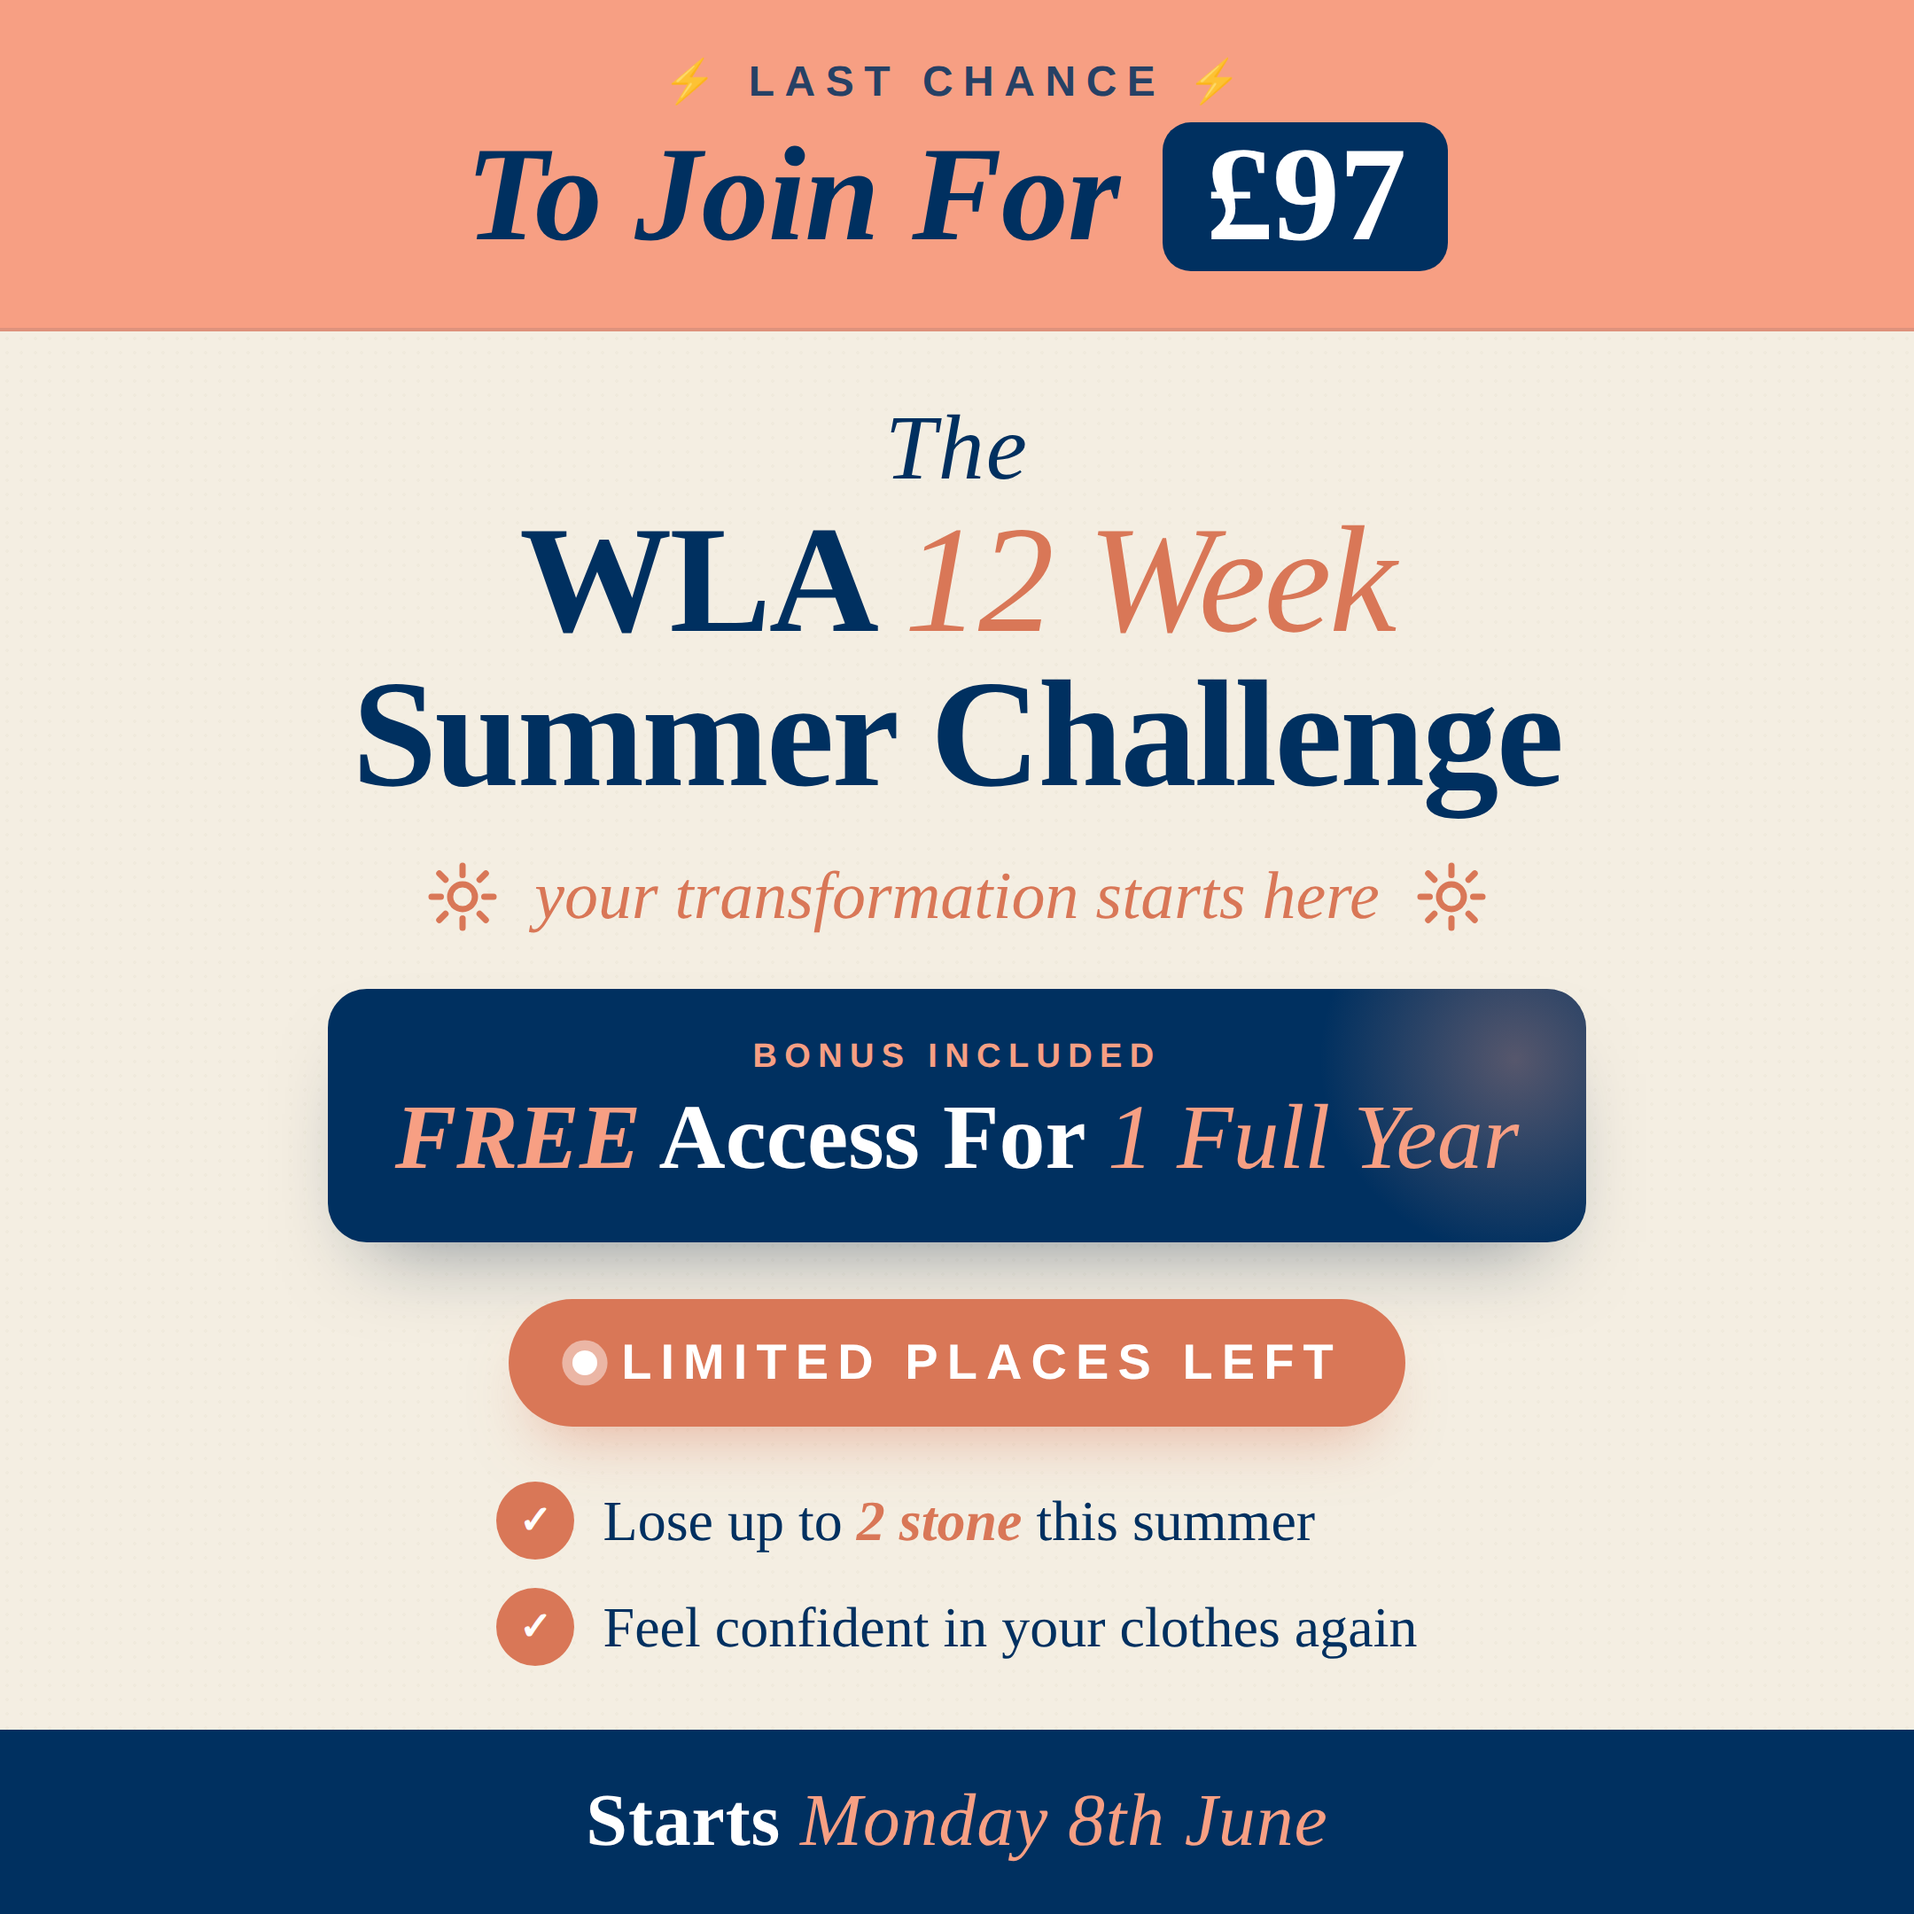
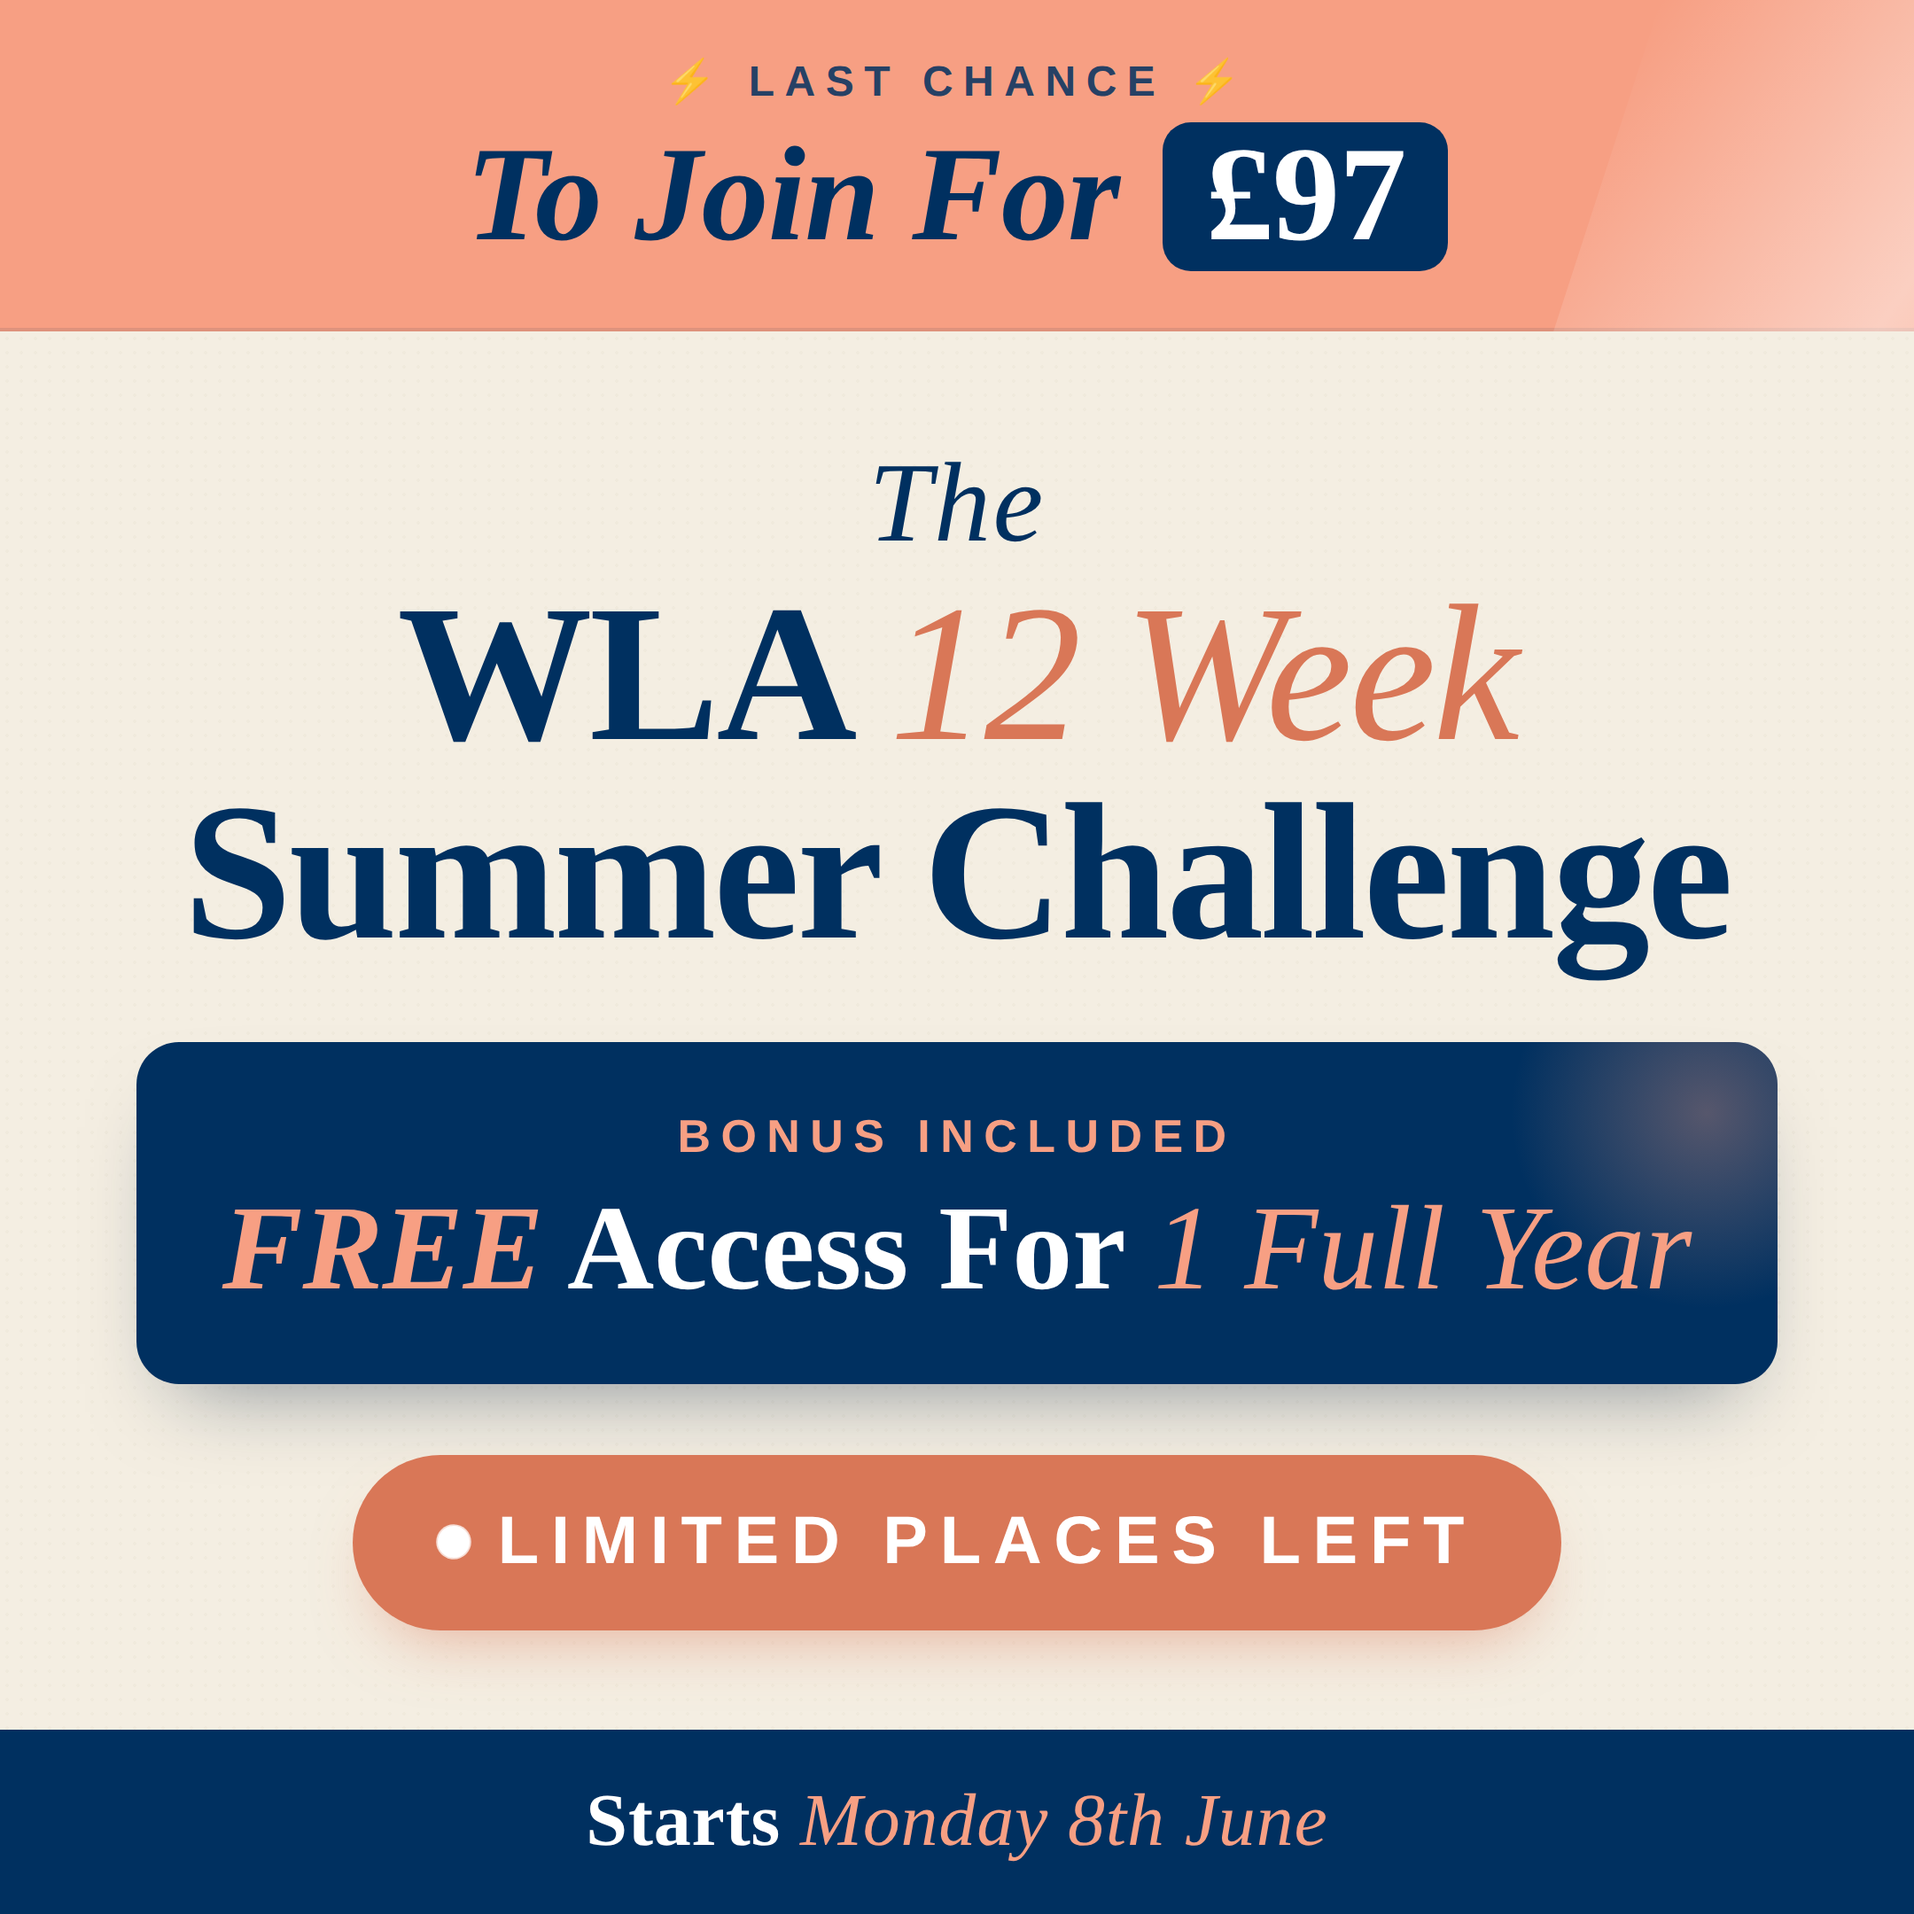
summer-challenge-ad: remove sun-row tagline + both promise lines; scale title 86->110 (small 52->64), bonus card lab 19->26 / headline 52->68 / padding 28-38 -> 38-48, limited pill 28->38 (padding 20-36 -> 28-48). Title / bonus / limited now own the middle of the 1080x1080 canvas. (#150)

Changed region(s): [[0.062, 0.2171, 0.9306, 0.8685], [0.8375, 0.0, 1.0, 0.1861]]

diff --git a/summer-challenge-ad/index.html b/summer-challenge-ad/index.html
@@ -91,7 +91,7 @@
   .body {
     flex: 1;
     text-align: center;
-    padding: 40px 60px 36px;
+    padding: 64px 60px 56px;
     display: flex;
     flex-direction: column;
     align-items: center;
@@ -114,12 +114,12 @@
     font-family: 'Libre Baskerville', serif;
     font-weight: 700;
     color: var(--navy-deep);
-    font-size: 86px;
+    font-size: 110px;
     line-height: 1.02;
     letter-spacing: -0.015em;
-    margin: 0 0 24px;
+    margin: 0;
   }
-  .title .small { display: block; font-size: 52px; font-weight: 400; font-style: italic; color: var(--navy-deep); margin-bottom: 4px; letter-spacing: 0.02em; }
+  .title .small { display: block; font-size: 64px; font-weight: 400; font-style: italic; color: var(--navy-deep); margin-bottom: 8px; letter-spacing: 0.02em; }
   .title em {
     color: var(--coral);
     font-style: italic;
@@ -130,12 +130,12 @@
   .free-card {
     background: var(--navy-deep);
     color: #fff;
-    border-radius: 22px;
-    padding: 28px 38px 30px;
+    border-radius: 24px;
+    padding: 38px 48px 40px;
     box-shadow: 0 24px 48px -24px rgba(14,39,70,0.5);
     position: relative;
     overflow: hidden;
-    margin: 0 0 32px;
+    margin: 0;
     display: inline-block;
   }
   .free-card::before {
@@ -152,13 +152,13 @@
     letter-spacing: 0.22em;
     text-transform: uppercase;
     color: var(--coral-salmon);
-    font-size: 19px;
-    margin-bottom: 8px;
+    font-size: 26px;
+    margin-bottom: 12px;
     position: relative; z-index: 1;
   }
   .free-card .free-headline {
     font-family: 'Libre Baskerville', serif;
-    font-size: 52px;
+    font-size: 68px;
     line-height: 1.05;
     font-weight: 700;
     position: relative; z-index: 1;
@@ -195,20 +195,20 @@
   .limited {
     display: inline-flex;
     align-items: center;
-    gap: 14px;
+    gap: 16px;
     background: var(--coral);
     color: #fff;
-    padding: 20px 36px;
+    padding: 28px 48px;
     border-radius: 999px;
     font-family: "Alegreya Sans", sans-serif;
     font-weight: 800;
     letter-spacing: 0.18em;
     text-transform: uppercase;
-    font-size: 28px;
+    font-size: 38px;
     box-shadow: 0 18px 36px -16px rgba(217,119,87,0.55);
   }
   .limited .pulse {
-    width: 14px; height: 14px;
+    width: 18px; height: 18px;
     border-radius: 50%;
     background: #fff;
     animation: pulse 1.6s infinite;
@@ -284,23 +284,12 @@
       WLA <em>12 Week</em><br/>Summer Challenge
     </h2>
 
-    <div class="sun-row">
-      <svg viewBox="0 0 24 24" aria-hidden="true"><circle cx="12" cy="12" r="4"/><line x1="12" y1="2" x2="12" y2="5"/><line x1="12" y1="19" x2="12" y2="22"/><line x1="2" y1="12" x2="5" y2="12"/><line x1="19" y1="12" x2="22" y2="12"/><line x1="4.5" y1="4.5" x2="6.5" y2="6.5"/><line x1="17.5" y1="17.5" x2="19.5" y2="19.5"/><line x1="4.5" y1="19.5" x2="6.5" y2="17.5"/><line x1="17.5" y1="6.5" x2="19.5" y2="4.5"/></svg>
-      <span>your transformation starts here</span>
-      <svg viewBox="0 0 24 24" aria-hidden="true"><circle cx="12" cy="12" r="4"/><line x1="12" y1="2" x2="12" y2="5"/><line x1="12" y1="19" x2="12" y2="22"/><line x1="2" y1="12" x2="5" y2="12"/><line x1="19" y1="12" x2="22" y2="12"/><line x1="4.5" y1="4.5" x2="6.5" y2="6.5"/><line x1="17.5" y1="17.5" x2="19.5" y2="19.5"/><line x1="4.5" y1="19.5" x2="6.5" y2="17.5"/><line x1="17.5" y1="6.5" x2="19.5" y2="4.5"/></svg>
-    </div>
-
     <div class="free-card">
       <div class="free-lab">Bonus Included</div>
       <div class="free-headline serif"><span class="free-word">Free</span> Access For <em>1 Full Year</em></div>
     </div>
 
     <div class="limited"><span class="pulse"></span>Limited Places Left</div>
-
-    <ul class="promises">
-      <li><span class="tick">✓</span><span>Lose up to <em>2 stone</em> this summer</span></li>
-      <li><span class="tick">✓</span><span>Feel confident in your clothes again</span></li>
-    </ul>
 
   </div>
 
